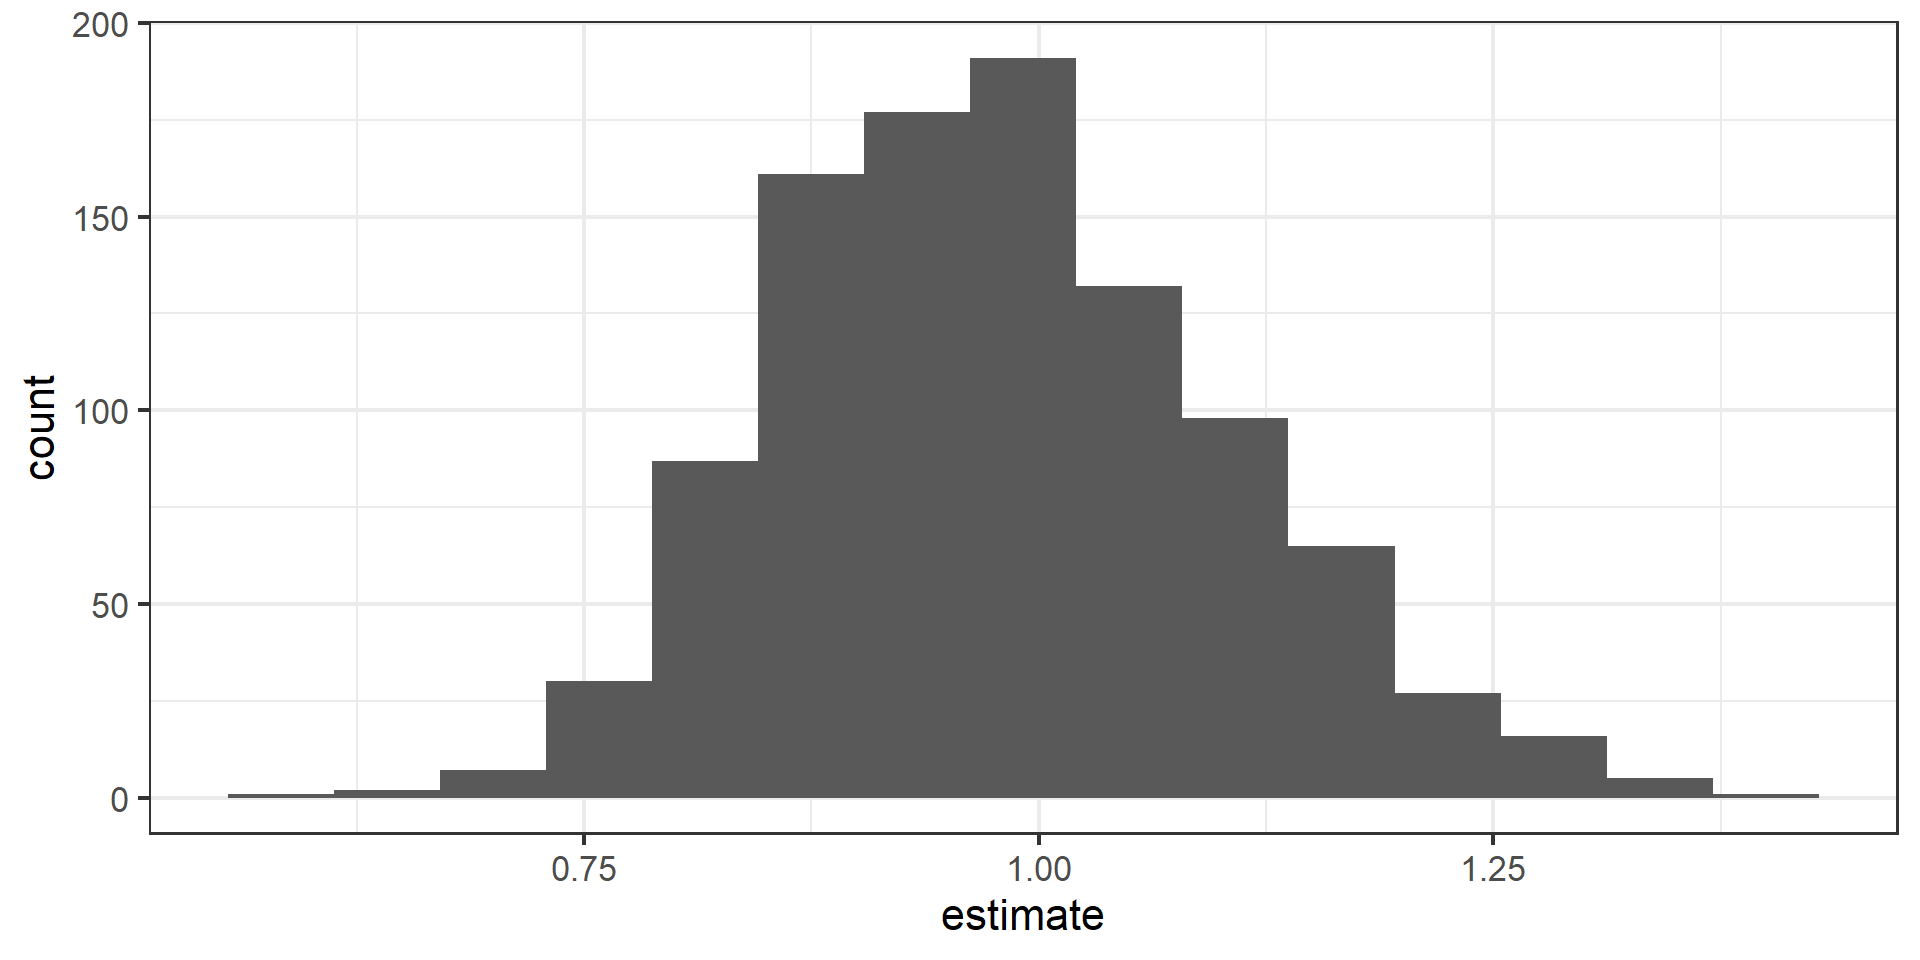
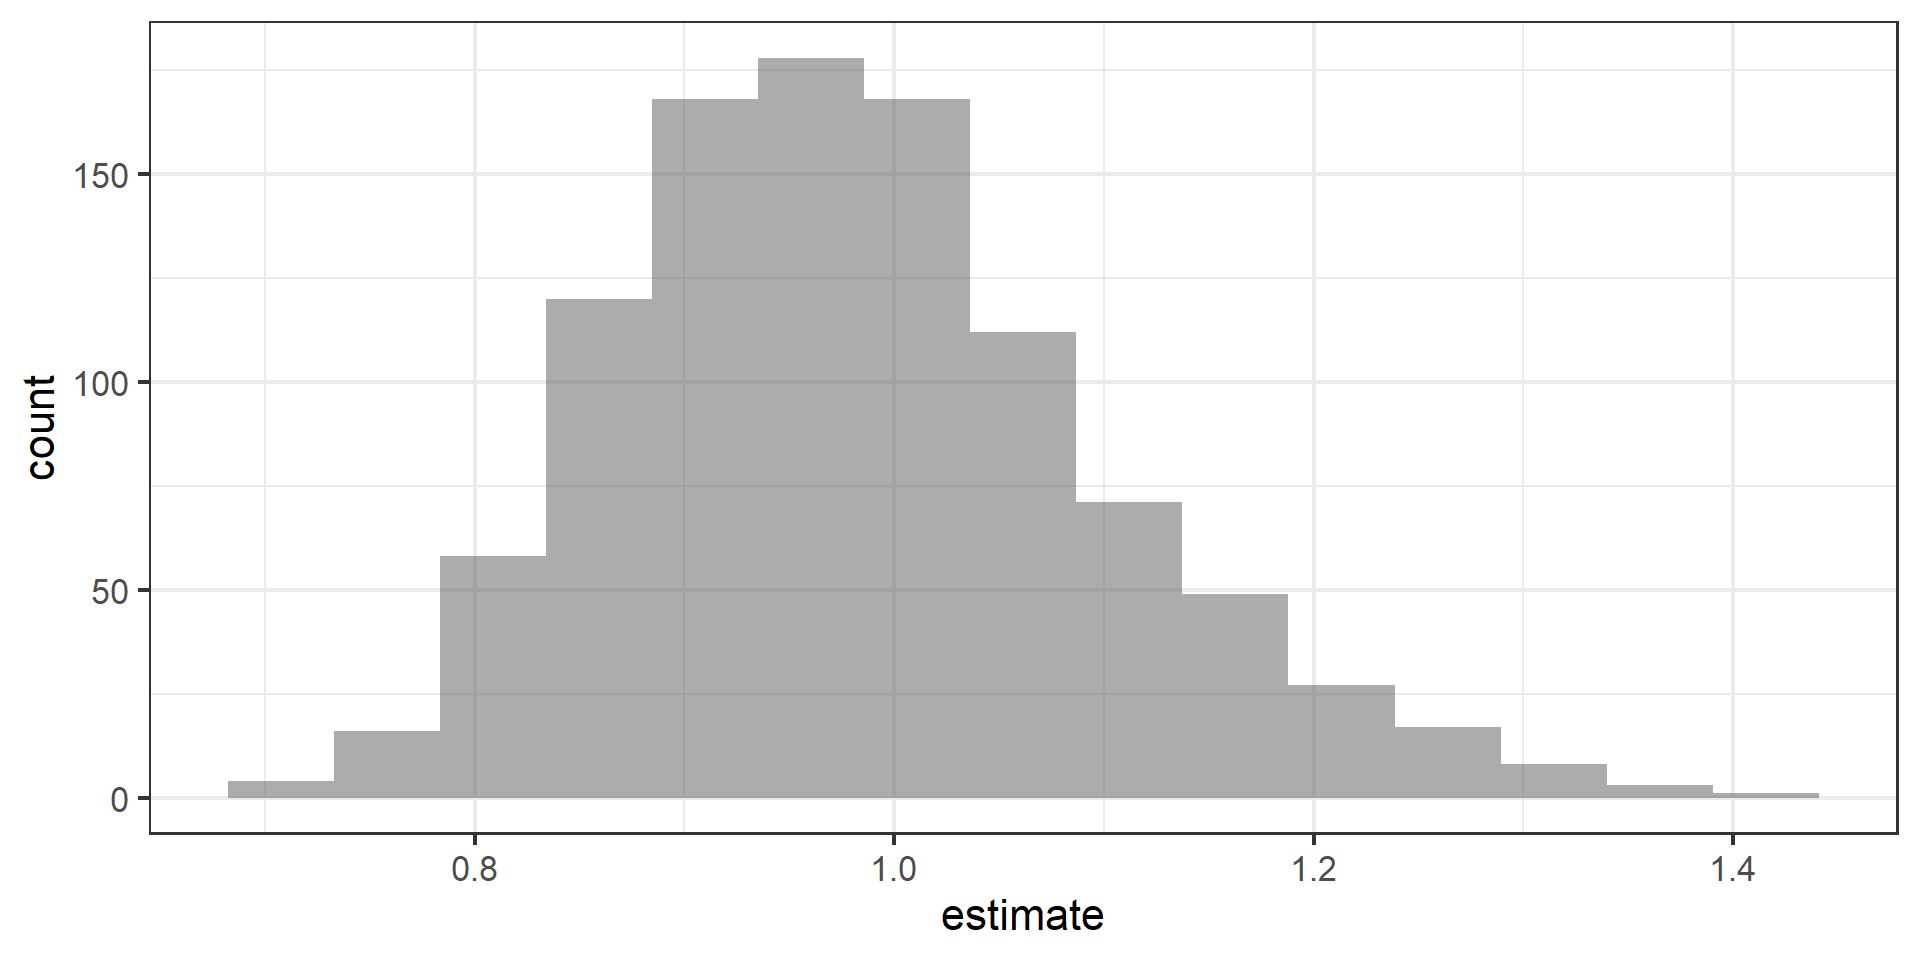
Fixed error

diff --git a/_site/slides/07-slr-sim-testing.html b/_site/slides/07-slr-sim-testing.html
@@ -451,9 +451,13 @@ Prof.&nbsp;Eric Friedlander
 <span id="cb1-6"><a></a><span class="fu">library</span>(scales)      <span class="co"># for pretty axis labels</span></span>
 <span id="cb1-7"><a></a><span class="fu">library</span>(knitr)       <span class="co"># for neatly formatted tables</span></span>
 <span id="cb1-8"><a></a></span>
-<span id="cb1-9"><a></a></span>
-<span id="cb1-10"><a></a><span class="co"># set default theme and larger font size for ggplot2</span></span>
-<span id="cb1-11"><a></a>ggplot2<span class="sc">::</span><span class="fu">theme_set</span>(ggplot2<span class="sc">::</span><span class="fu">theme_bw</span>(<span class="at">base_size =</span> <span class="dv">16</span>))</span></code><button title="Copy to Clipboard" class="code-copy-button"><i class="bi"></i></button></pre></div>
+<span id="cb1-9"><a></a><span class="co"># load my data</span></span>
+<span id="cb1-10"><a></a>heb <span class="ot">&lt;-</span> <span class="fu">read_csv</span>(<span class="st">"data/HEBIncome.csv"</span>) <span class="sc">|&gt;</span> </span>
+<span id="cb1-11"><a></a>  <span class="fu">mutate</span>(<span class="at">Avg_Income_K =</span> Avg_Household_Income<span class="sc">/</span><span class="dv">1000</span>)</span>
+<span id="cb1-12"><a></a></span>
+<span id="cb1-13"><a></a></span>
+<span id="cb1-14"><a></a><span class="co"># set default theme and larger font size for ggplot2</span></span>
+<span id="cb1-15"><a></a>ggplot2<span class="sc">::</span><span class="fu">theme_set</span>(ggplot2<span class="sc">::</span><span class="fu">theme_bw</span>(<span class="at">base_size =</span> <span class="dv">16</span>))</span></code><button title="Copy to Clipboard" class="code-copy-button"><i class="bi"></i></button></pre></div>
 </div>
 </section></section>
 <section>
@@ -533,7 +537,7 @@ Prof.&nbsp;Eric Friedlander
 <section id="bootstrapping-pipeline-i" class="slide level2">
 <h2>Bootstrapping pipeline I</h2>
 <div class="cell">
-<div class="sourceCode cell-code" id="cb3" data-code-line-numbers="|1|3|4"><pre class="sourceCode numberSource r number-lines code-with-copy"><code class="sourceCode r"><span id="cb3-1"><a></a><span class="fu">set.seed</span>(<span class="dv">210</span>)</span>
+<div class="sourceCode cell-code" id="cb3" data-code-line-numbers="|1|3|4"><pre class="sourceCode numberSource r number-lines code-with-copy"><code class="sourceCode r"><span id="cb3-1"><a></a><span class="fu">set.seed</span>(<span class="dv">212</span>)</span>
 <span id="cb3-2"><a></a></span>
 <span id="cb3-3"><a></a>heb <span class="sc">|&gt;</span></span>
 <span id="cb3-4"><a></a>  <span class="fu">specify</span>(Number_Organic <span class="sc">~</span> Avg_Income_K)</span></code><button title="Copy to Clipboard" class="code-copy-button"><i class="bi"></i></button></pre></div>
@@ -560,7 +564,7 @@ Explanatory: Avg_Income_K (numeric)
 <section id="bootstrapping-pipeline-ii" class="slide level2">
 <h2>Bootstrapping pipeline II</h2>
 <div class="cell">
-<div class="sourceCode cell-code" id="cb5" data-code-line-numbers="|5"><pre class="sourceCode numberSource r number-lines code-with-copy"><code class="sourceCode r"><span id="cb5-1"><a></a><span class="fu">set.seed</span>(<span class="dv">210</span>)</span>
+<div class="sourceCode cell-code" id="cb5" data-code-line-numbers="|5"><pre class="sourceCode numberSource r number-lines code-with-copy"><code class="sourceCode r"><span id="cb5-1"><a></a><span class="fu">set.seed</span>(<span class="dv">212</span>)</span>
 <span id="cb5-2"><a></a></span>
 <span id="cb5-3"><a></a>heb <span class="sc">|&gt;</span></span>
 <span id="cb5-4"><a></a>  <span class="fu">specify</span>(Number_Organic <span class="sc">~</span> Avg_Income_K) <span class="sc">|&gt;</span></span>
@@ -572,16 +576,16 @@ Explanatory: Avg_Income_K (numeric)
 # Groups:   replicate [1,000]
    replicate Number_Organic Avg_Income_K
        &lt;int&gt;          &lt;dbl&gt;        &lt;dbl&gt;
- 1         1             65         50.3
- 2         1             61         86.6
- 3         1             85         78.2
- 4         1             86         86.6
- 5         1             26         48.4
+ 1         1             44         50.3
+ 2         1             18         50.4
+ 3         1             29         56.3
+ 4         1             85         78.2
+ 5         1             86         84.2
  6         1             12         38.2
- 7         1             93        136. 
- 8         1             85         78.2
- 9         1             85         78.2
-10         1             96         77.9
+ 7         1             15         41.3
+ 8         1             82         92.9
+ 9         1             28         72.1
+10         1             85         78.2
 # ℹ 36,990 more rows</code></pre>
 </div>
 </div>
@@ -589,7 +593,7 @@ Explanatory: Avg_Income_K (numeric)
 <section id="bootstrapping-pipeline-iii" class="slide level2">
 <h2>Bootstrapping pipeline III</h2>
 <div class="cell">
-<div class="sourceCode cell-code" id="cb7" data-code-line-numbers="|6"><pre class="sourceCode numberSource r number-lines code-with-copy"><code class="sourceCode r"><span id="cb7-1"><a></a><span class="fu">set.seed</span>(<span class="dv">210</span>)</span>
+<div class="sourceCode cell-code" id="cb7" data-code-line-numbers="|6"><pre class="sourceCode numberSource r number-lines code-with-copy"><code class="sourceCode r"><span id="cb7-1"><a></a><span class="fu">set.seed</span>(<span class="dv">212</span>)</span>
 <span id="cb7-2"><a></a></span>
 <span id="cb7-3"><a></a>heb <span class="sc">|&gt;</span></span>
 <span id="cb7-4"><a></a>  <span class="fu">specify</span>(Number_Organic <span class="sc">~</span> Avg_Income_K) <span class="sc">|&gt;</span></span>
@@ -600,16 +604,16 @@ Explanatory: Avg_Income_K (numeric)
 # Groups:   replicate [1,000]
    replicate term         estimate
        &lt;int&gt; &lt;chr&gt;           &lt;dbl&gt;
- 1         1 intercept      -6.99 
- 2         1 Avg_Income_K    0.866
- 3         2 intercept     -26.7  
- 4         2 Avg_Income_K    1.20 
- 5         3 intercept     -28.2  
- 6         3 Avg_Income_K    1.16 
- 7         4 intercept     -13.6  
- 8         4 Avg_Income_K    0.881
- 9         5 intercept     -20.2  
-10         5 Avg_Income_K    1.02 
+ 1         1 intercept      -8.22 
+ 2         1 Avg_Income_K    0.869
+ 3         2 intercept      -8.52 
+ 4         2 Avg_Income_K    0.878
+ 5         3 intercept     -16.4  
+ 6         3 Avg_Income_K    0.948
+ 7         4 intercept     -38.2  
+ 8         4 Avg_Income_K    1.37 
+ 9         5 intercept      -5.62 
+10         5 Avg_Income_K    0.836
 # ℹ 1,990 more rows</code></pre>
 </div>
 </div>
@@ -617,7 +621,7 @@ Explanatory: Avg_Income_K (numeric)
 <section id="bootstrapping-pipeline-iv" class="slide level2">
 <h2>Bootstrapping pipeline IV</h2>
 <div class="cell">
-<div class="sourceCode cell-code" id="cb9" data-code-line-numbers="|3"><pre class="sourceCode numberSource r number-lines code-with-copy"><code class="sourceCode r"><span id="cb9-1"><a></a><span class="fu">set.seed</span>(<span class="dv">210</span>)</span>
+<div class="sourceCode cell-code" id="cb9" data-code-line-numbers="|3"><pre class="sourceCode numberSource r number-lines code-with-copy"><code class="sourceCode r"><span id="cb9-1"><a></a><span class="fu">set.seed</span>(<span class="dv">212</span>)</span>
 <span id="cb9-2"><a></a></span>
 <span id="cb9-3"><a></a>boot_dist <span class="ot">&lt;-</span> heb <span class="sc">|&gt;</span></span>
 <span id="cb9-4"><a></a>  <span class="fu">specify</span>(Number_Organic <span class="sc">~</span> Avg_Income_K) <span class="sc">|&gt;</span></span>
@@ -630,8 +634,7 @@ Explanatory: Avg_Income_K (numeric)
 <div class="cell">
 <div class="sourceCode cell-code" id="cb10" data-code-line-numbers="|2"><pre class="sourceCode numberSource r number-lines code-with-copy"><code class="sourceCode r"><span id="cb10-1"><a></a>boot_dist <span class="sc">|&gt;</span></span>
 <span id="cb10-2"><a></a>  <span class="fu">filter</span>(term <span class="sc">==</span> <span class="st">"Avg_Income_K"</span>) <span class="sc">|&gt;</span></span>
-<span id="cb10-3"><a></a>  <span class="fu">ggplot</span>(<span class="fu">aes</span>(<span class="at">x =</span> estimate)) <span class="sc">+</span></span>
-<span id="cb10-4"><a></a>  <span class="fu">geom_histogram</span>(<span class="at">bins =</span> <span class="dv">15</span>)</span></code><button title="Copy to Clipboard" class="code-copy-button"><i class="bi"></i></button></pre></div>
+<span id="cb10-3"><a></a>  <span class="fu">gf_histogram</span>(<span class="sc">~</span>estimate, <span class="at">bins =</span> <span class="dv">15</span>)</span></code><button title="Copy to Clipboard" class="code-copy-button"><i class="bi"></i></button></pre></div>
 
 </div>
 <img data-src="07-slr-sim-testing_files/figure-revealjs/unnamed-chunk-8-1.png" width="960" class="r-stretch"></section>
@@ -669,8 +672,8 @@ Explanatory: Avg_Income_K (numeric)
 <pre><code># A tibble: 2 × 3
   term         lower_ci upper_ci
   &lt;chr&gt;           &lt;dbl&gt;    &lt;dbl&gt;
-1 Avg_Income_K    0.771   1.24  
-2 intercept     -33.0     0.0473</code></pre>
+1 Avg_Income_K    0.792     1.24
+2 intercept     -31.9      -1.27</code></pre>
 </div>
 </div>
 </section></section>
